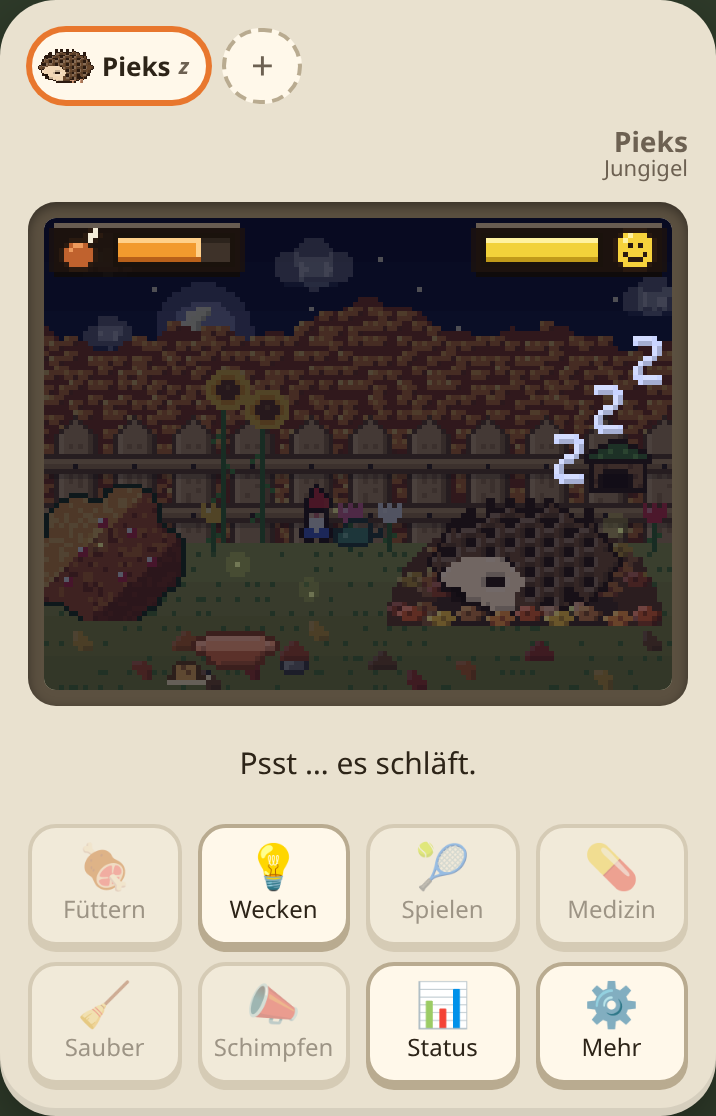
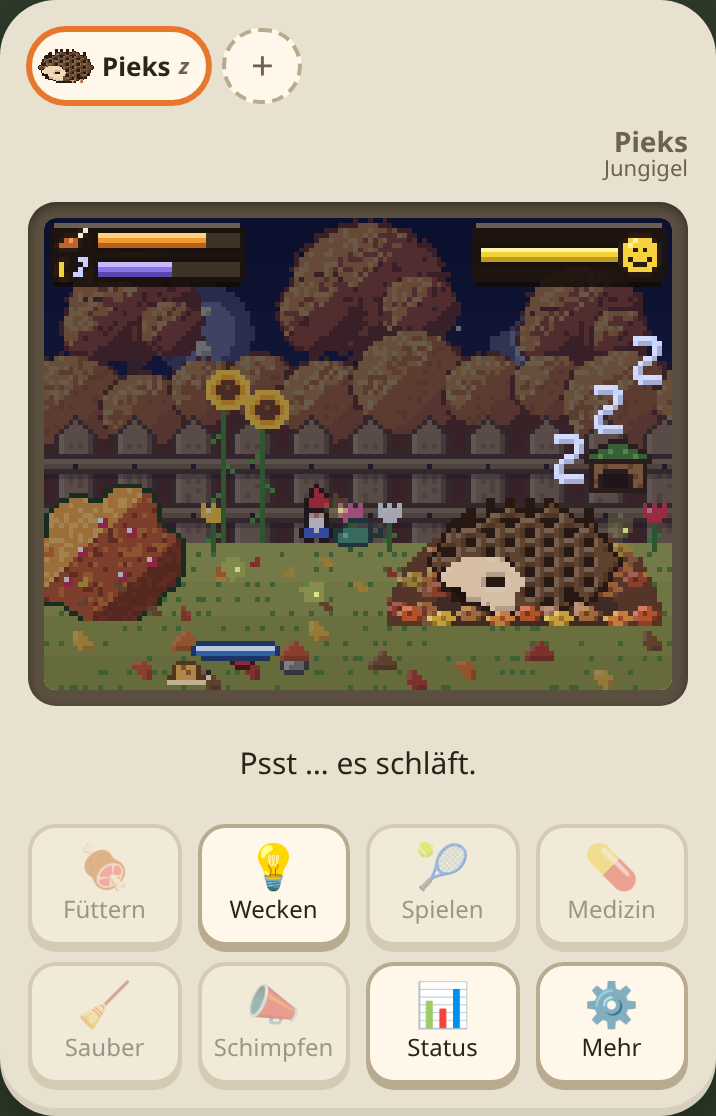
Nacht mit Tiefe statt einheitlichem Filter: Ferne dunkler, Tier heller, Lichtkreise um Lampe und Fenster; Screenshots aktualisiert

Changed region(s): [[0.0615, 0.1828, 0.9525, 0.6398]]

diff --git a/src/render/scene.ts b/src/render/scene.ts
@@ -7,7 +7,7 @@ import { Critters } from './critters';
 import { bands, glow, shadeHex } from './fx';
 import { COOP_PERCH_Y, DEN, GROUND_Y, PLATE_COLORS, clipToDen, SceneKind, drawNestBack, drawNestFront, drawOutdoorFar, drawOutdoorNear, drawOutdoorSky, skyState } from './outdoor';
 import { Clouds, drawPrecip, drawPuddles, drawWindowDrops, weatherAt } from './weather';
-import { Ambient, drawLamp, drawLampLight, eveningLight } from './ambient';
+import { Ambient, LAMP, drawLamp, drawLampLight, eveningLight, nightTint, nightness, roomNight } from './ambient';
 import { remapContext, seasonOf, seasonTransform, snowCaps, snowGround } from './season';
 import { NEST_BOX, decorTargets, drawDecorAnim, drawDecorFar, drawDecorNear, drawFrontDecorFor, drawNestEggs, drawSillDecor, drawWeathervane } from './decor';
 
@@ -424,13 +424,15 @@ export class Scene {
       }
       this.clouds.draw(ctx, s.clock, t, { x: 0, y: 0, w: SCREEN_W, h: GROUND_Y }, !this.bgDay); // Wolken
       this.critters.draw(ctx, 'sky', t); // Vögel
+      const night = nightness(skyState(s.clock));
       ctx.drawImage(this.bgFar, 0, 0, SCREEN_W, SCREEN_H); // Berge, Hügel / Hecke, Zaun
       if (sp.id === 'fox') drawDecorAnim(ctx, 'fox', t); // Glitzern auf dem Bach
       this.critters.draw(ctx, 'background', t); // Reh
+      nightTint(ctx, night * 0.38); // Ferne nachts am dunkelsten
       ctx.drawImage(this.bg, 0, 0, SCREEN_W, SCREEN_H); // Wiese, Bäume, Busch, Schlafplatz
       if (weatherAt(s.clock).precip === 'rain') drawPuddles(ctx, t);
       this.critters.draw(ctx, 'air', t); // wehende Blätter
-      if (!this.bgDay) this.overlay(0.3); // Nacht draußen: Hintergrund dunkler
+      nightTint(ctx, night * 0.26); // Nahes etwas weniger dunkel
       if (season !== 'winter') this.ambient.draw(ctx, this.env, skyState(s.clock), t, WIN); // Schmetterlinge / Glühwürmchen
     }
     this.drawDecor(sp, t, 'anim');
@@ -468,6 +470,15 @@ export class Scene {
     this.drawBowl(t);
 
     const skyNow = skyState(s.clock);
+    // Nacht: draußen das Tier nur leicht abdunkeln, drinnen mit Lichtkreisen um Lampe und Fenster
+    const nightNow = nightness(skyNow);
+    const hourNow = new Date(s.clock).getHours();
+    const lampOn = this.env === 'room' && p.lightOn && (hourNow >= 18 || hourNow < 7);
+    if (this.env === 'room') {
+      const lights = [{ x: WIN.x + WIN.w / 2, y: WIN.y + WIN.h, r: 12 }];
+      if (lampOn) lights.push({ x: LAMP.x, y: LAMP.shadeY + 6, r: 22 });
+      roomNight(ctx, nightNow * 0.5, lights);
+    } else nightTint(ctx, nightNow * 0.12);
     if (this.env !== 'room') {
       const wx = weatherAt(s.clock);
       if (wx.precip === 'rain') this.overlay(0.12); // trüber bei Regen
@@ -475,8 +486,7 @@ export class Scene {
     }
     eveningLight(ctx, skyNow);
     // Stehlampe brennt abends und nachts, solange das Licht an ist
-    const hour = new Date(s.clock).getHours();
-    if (this.env === 'room' && p.lightOn && (hour >= 18 || hour < 7)) drawLampLight(ctx);
+    if (lampOn) drawLampLight(ctx);
     // kein Abdunkeln bei „Licht aus“ – das Bild bleibt hell, auch wenn das Tier schläft
 
     // Zzz (über dem Dunkel, damit man es sieht)

diff --git a/src/render/ambient.ts b/src/render/ambient.ts
@@ -92,3 +92,43 @@ export function drawLampLight(ctx: CanvasRenderingContext2D) {
   ctx.globalAlpha = 1;
   drawPixels(ctx, ['...oooo...', '..oSSSSo..', '.oSSLSSSo.', 'oSSLLSSSSo', 'oooooooooo'], { o: '#9a7a4a', S: '#fff2c0', L: '#ffffff' }, x - 2.25, shadeY);
 }
+
+/** wie dunkel es ist: 0 = Tag, 1 = Nacht, dazwischen in der Dämmerung */
+export function nightness(sky: Sky): number {
+  if (!sky.day) return sky.edge < 0.05 ? 0.6 + (sky.edge / 0.05) * 0.4 : 1;
+  return sky.edge < 0.05 ? ((0.05 - sky.edge) / 0.05) * 0.5 : 0;
+}
+
+/** bläuliche Abdunklung einer Ebene (Stärke 0..1) */
+export function nightTint(ctx: CanvasRenderingContext2D, amount: number) {
+  if (amount <= 0) return;
+  ctx.fillStyle = `rgba(14,18,52,${amount.toFixed(3)})`;
+  ctx.fillRect(0, 0, 64, 48);
+}
+
+let shadeCanvas: HTMLCanvasElement | null = null;
+/**
+ * Nacht im Zimmer: dunkel, aber um Lichtquellen herum (Lampe, Mondlicht am Fenster) heller –
+ * Lichtkreise in Stufen, damit es zum Pixel-Look passt.
+ */
+export function roomNight(ctx: CanvasRenderingContext2D, amount: number, lights: { x: number; y: number; r: number }[]) {
+  if (amount <= 0) return;
+  const RES = 2;
+  shadeCanvas ??= Object.assign(document.createElement('canvas'), { width: 64 * RES, height: 48 * RES });
+  const c = shadeCanvas.getContext('2d')!;
+  c.setTransform(RES, 0, 0, RES, 0, 0);
+  c.globalCompositeOperation = 'source-over';
+  c.clearRect(0, 0, 64, 48);
+  c.fillStyle = `rgba(12,14,40,${amount.toFixed(3)})`;
+  c.fillRect(0, 0, 64, 48);
+  // Lichtkreise ausstanzen (außen schwach, innen stark)
+  c.globalCompositeOperation = 'destination-out';
+  for (const l of lights)
+    for (const [k, a] of [[1, 0.35], [0.7, 0.35], [0.45, 0.5]] as [number, number][]) {
+      c.globalAlpha = a;
+      pixelCircle(c, l.x, l.y, l.r * k, '#000');
+    }
+  c.globalAlpha = 1;
+  c.globalCompositeOperation = 'source-over';
+  ctx.drawImage(shadeCanvas, 0, 0, 64, 48);
+}

diff --git a/SPEC.md b/SPEC.md
@@ -313,6 +313,11 @@ Mehrere Parameter lassen sich kombinieren. Bei einem Ei wirkt nur `hatch=1`.
   - zugefrorener Bach, Schnee-Böen statt Blätter
   - keine Sonnenblumen, keine Schmetterlinge und Glühwürmchen
 
+**Nacht:** Nachts wird nicht einfach ein Filter über alles gelegt, sondern nach Tiefe und Licht abgedunkelt:
+- **Draußen:** Die ferne Landschaft (Berge, Hügel, Hecke) ist am dunkelsten und bläulich, die nahe Landschaft etwas heller, das Tier selbst nur leicht abgedunkelt.
+- **Drinnen:** Das Zimmer wird dunkler. Um die brennende **Stehlampe** bleibt ein warmer, heller Lichtkreis, vom Fenster fällt **Mondlicht** herein (Lichtkreise in Stufen, passend zum Pixel-Look).
+- In der Dämmerung geht es sanft über. Glühwürmchen, Lampe und HUD bleiben hell.
+
 **Wolken und Wetter:** Am Himmel draußen und im Fenster drinnen **ziehen Wolken vorbei**.
 - Das Wetter wechselt etwa **alle 45 Minuten** zufällig, aber in einem moderaten Rahmen: **1 bis 5 Wolken** und **Wind** von schwach bis mäßig, meist von West nach Ost, manchmal andersherum.
 - Wolken kommen am Rand herein und ziehen hinaus. Größere Wolken sind etwas schneller, Wind und Wolkenzahl ändern sich sanft.
